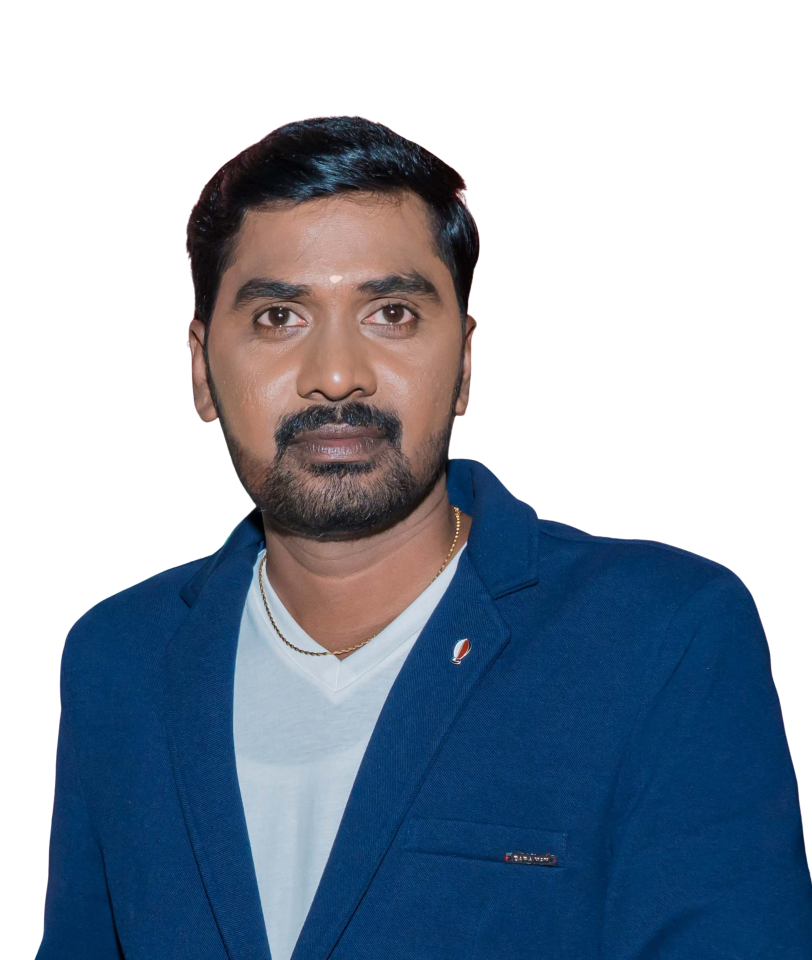
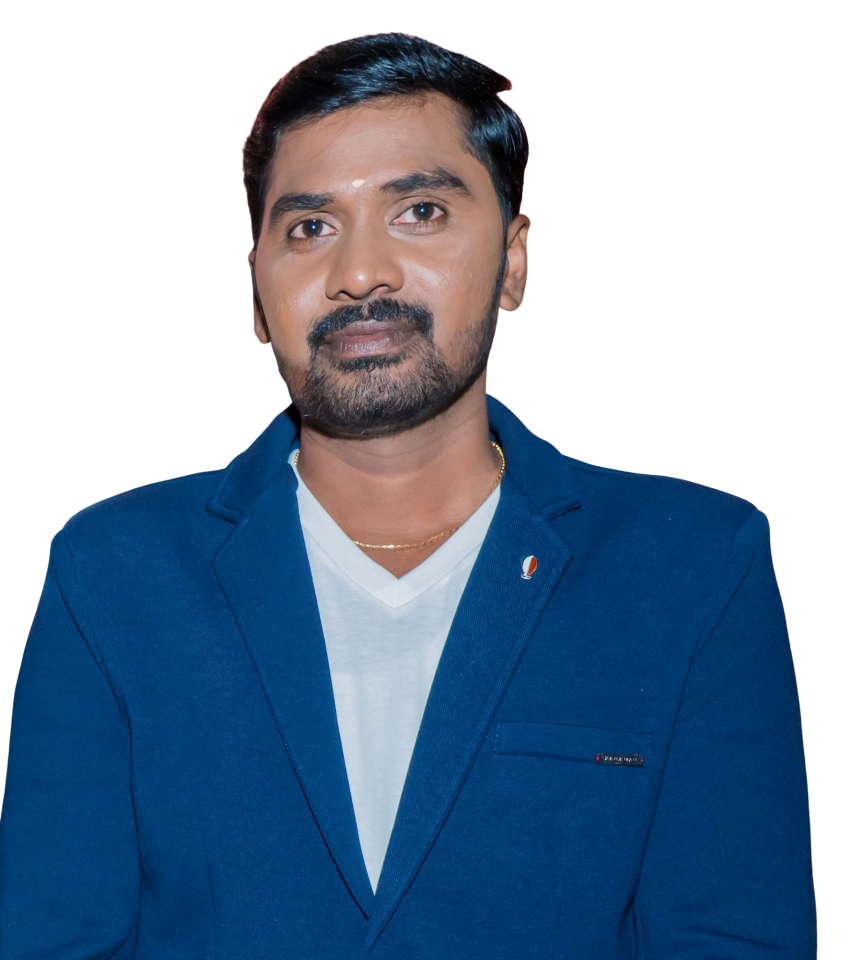
ui

diff --git a/src/Pages/About.jsx b/src/Pages/About.jsx
@@ -1,4 +1,4 @@
-import Dharan from "../Images/Dharan.jpg";
+import Dharan from "../Images/Dharan.png";
 import Cv from "../Images/Resume.pdf";
 
 const About = () => {
@@ -9,7 +9,7 @@ const About = () => {
 					<h1>
 						About <span>Me</span>
 					</h1>
-					<div className="col-md-6 p-0 m-auto d-flex justify-content-center align-items-center">
+					<div className="col-md-6 p-2 m-auto d-flex justify-content-center align-items-center">
 						<div className="my-pic">
 							<img src={Dharan} alt="img" />
 						</div>

diff --git a/src/Pages/Portfolio.jsx b/src/Pages/Portfolio.jsx
@@ -21,7 +21,7 @@ const Portfolio = () => {
 					</h1>
 					<div className="d-flex justify-content-center align-items-center mb-5">
 						<button onClick={() => setItems(Portfol)}>ALL</button>
-						<button onClick={() => filterItem("Portfolio")}>PORTFOLIO</button>
+						{/* <button onClick={() => filterItem("Portfolio")}>PORTFOLIO</button> */}
 						<button onClick={() => filterItem("Websites")}>WEBSITES</button>
 						<button onClick={() => filterItem("E-Com")}>E-COM</button>
 					</div>

diff --git a/src/App.css b/src/App.css
@@ -256,6 +256,7 @@ button:hover {
 	width: 100%;
 	border-radius: 10px;
 	margin-bottom: 20px;
+	background-color: #f3ebee;
 }
 
 .my-details ul li {
@@ -292,6 +293,11 @@ button:hover {
 .skills li icon {
 	font-size: 100px;
 	font-weight: 800;
+}
+
+.skills ul li:hover {
+	transform: scale3d(1.1, 1.1, 1);
+	transition: transform 1s ease-in-out;
 }
 
 /*******************************************************---RESUME---******************************************************/
